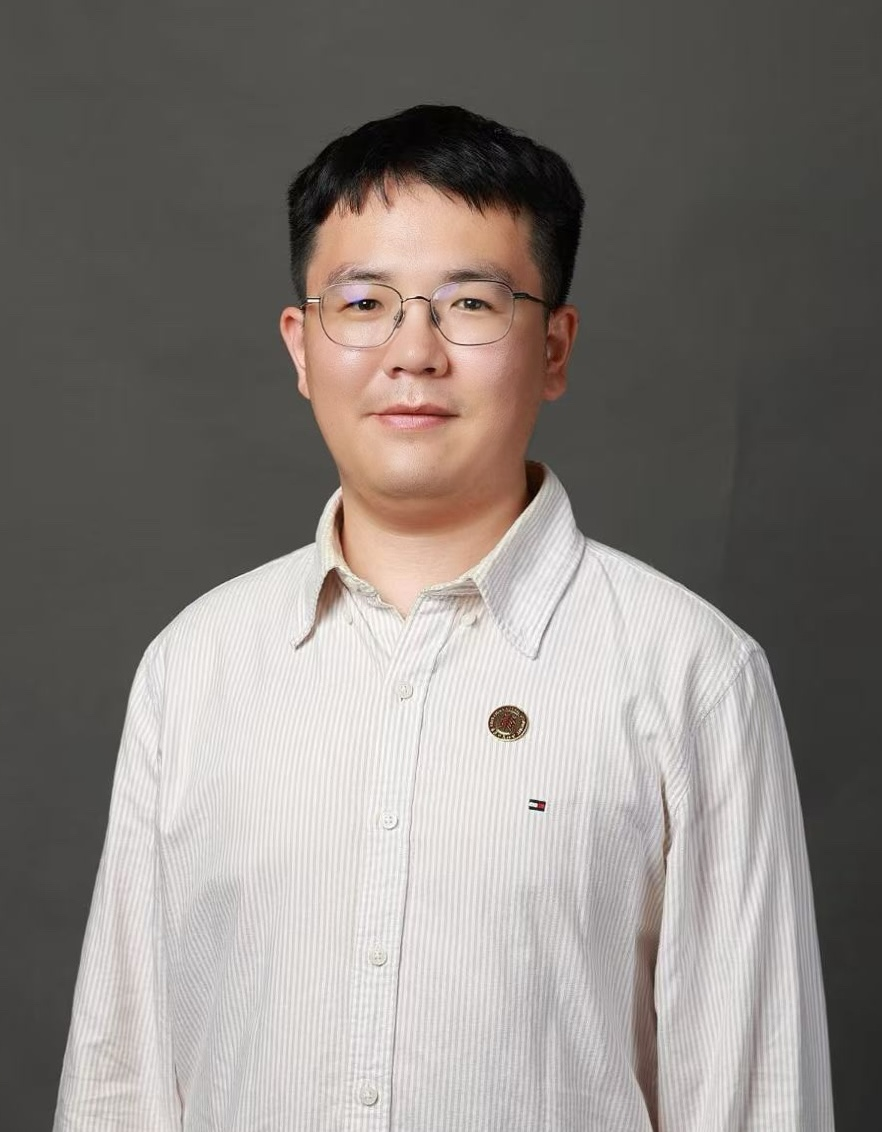
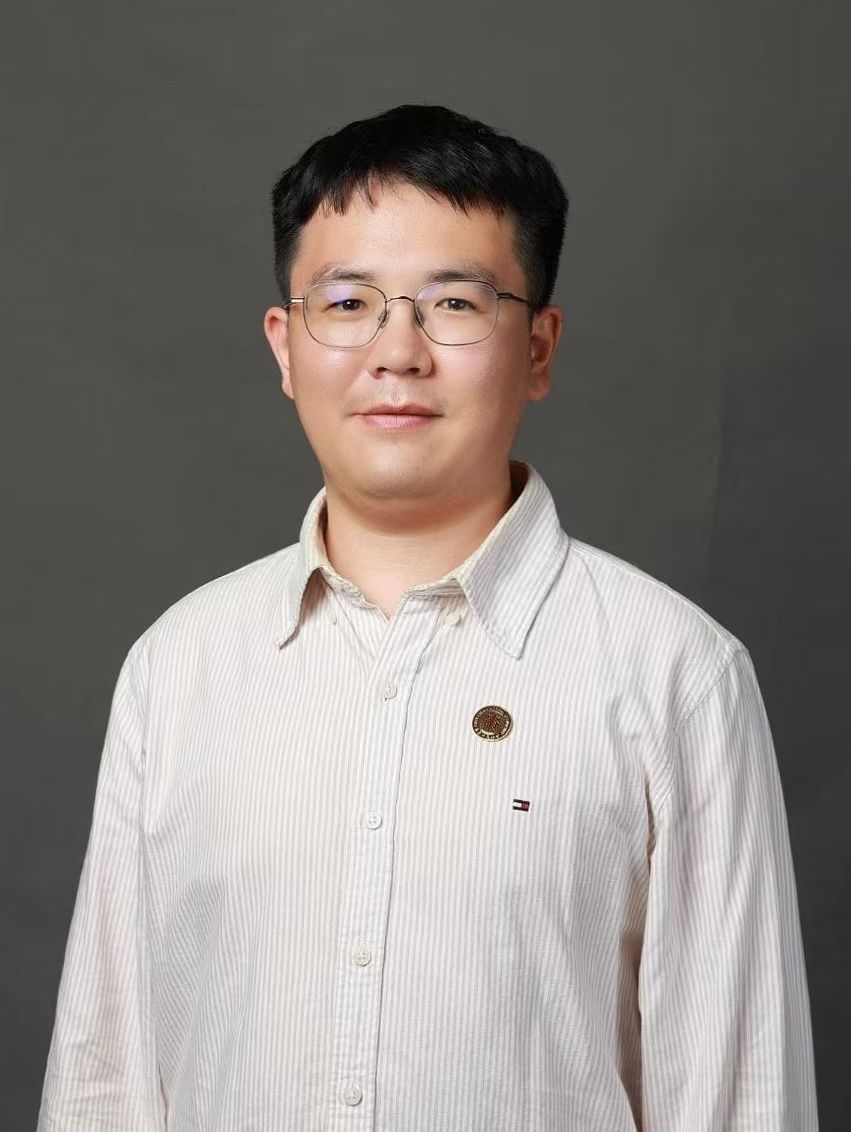
change frequency

diff --git a/index.md b/index.md
@@ -15,7 +15,7 @@ layout: default
     setInterval(function() {
         currentIndex = (currentIndex + 1) % images.length;
         avatarImg.src = images[currentIndex];
-    }, 20000); // 每20秒切换一次图片
+    }, 5000); // 每20秒切换一次图片
 })();
 </script>
 
